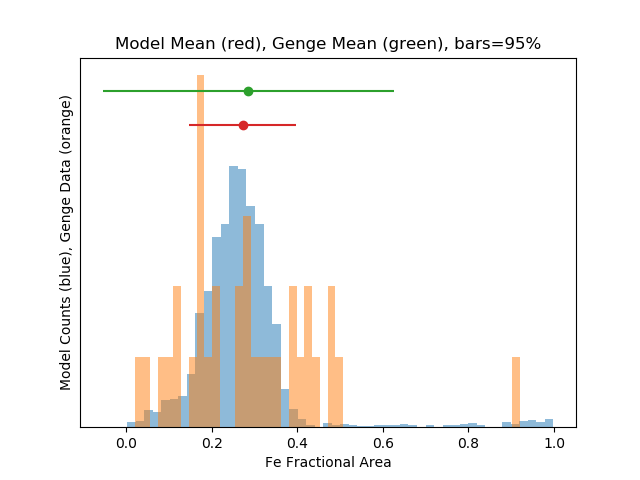
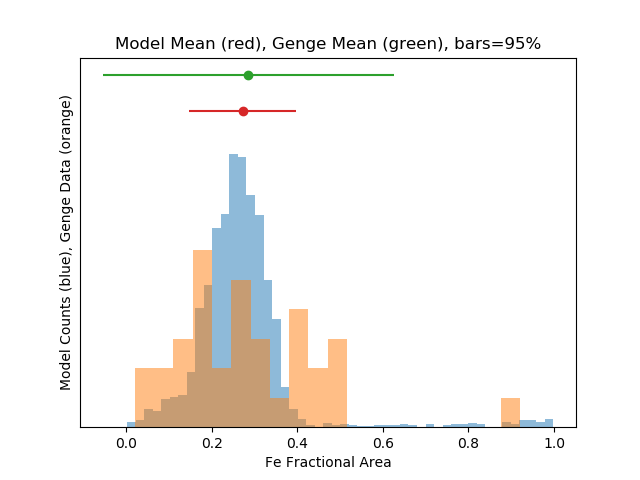
updating code...

Changed region(s): [[0.1562, 0.125, 0.5938, 0.9062], [0.7812, 0.75, 0.8125, 0.9062]]

diff --git a/entry_model.py b/entry_model.py
@@ -754,7 +754,7 @@ def zStatAndPlot(directory="rand_sim"):
 
 
     plt.hist(fe_frac_array, bins=50, normed=True, alpha=0.5)
-    plt.hist(genge_data, bins=50, normed=True, alpha=0.5)
+    plt.hist(genge_data, bins=20, normed=True, alpha=0.5)
     plt.errorbar([np.mean(genge_data)], [7.8], xerr=[2*np.std(genge_data)], fmt='-o')
     plt.errorbar([mean], [7.0], xerr=[std], fmt='-o')
     plt.xlabel("Fe Fractional Area")
@@ -874,7 +874,7 @@ def plotRandomIronPartition(directory="rand_sim", use_all=False):
     plt.show()
 
 
-def co2_data_mean(directory="co2_runs"):
+def plot_co2_data_mean(directory="co2_runs"):
     """
     Calculate the mean Fe area for varying co2 levels
     """
@@ -940,9 +940,9 @@ def co2_data_mean(directory="co2_runs"):
 #this function runs a basic, single model run
 #plot_particle_parameters((1/50)*3.665E-9, 12000, 45*pi/180)
 
-co2_data_mean()
+#plot_co2_data_mean()
 #generateRandomSampleData(output_dir="co2_runs/co2_30", num_samples=500)
 #plotRandomIronPartition(directory="co2_runs/co2_18", use_all=True)
-#zStatAndPlot(directory="co2_runs/co2_02")
+zStatAndPlot(directory="rand_sim_hires_gamma0.8")
 #runMultithreadAcrossParams(output_dir="new_output")
 #plotMultithreadResultsRadiusVsTheta(directory="new_output")
